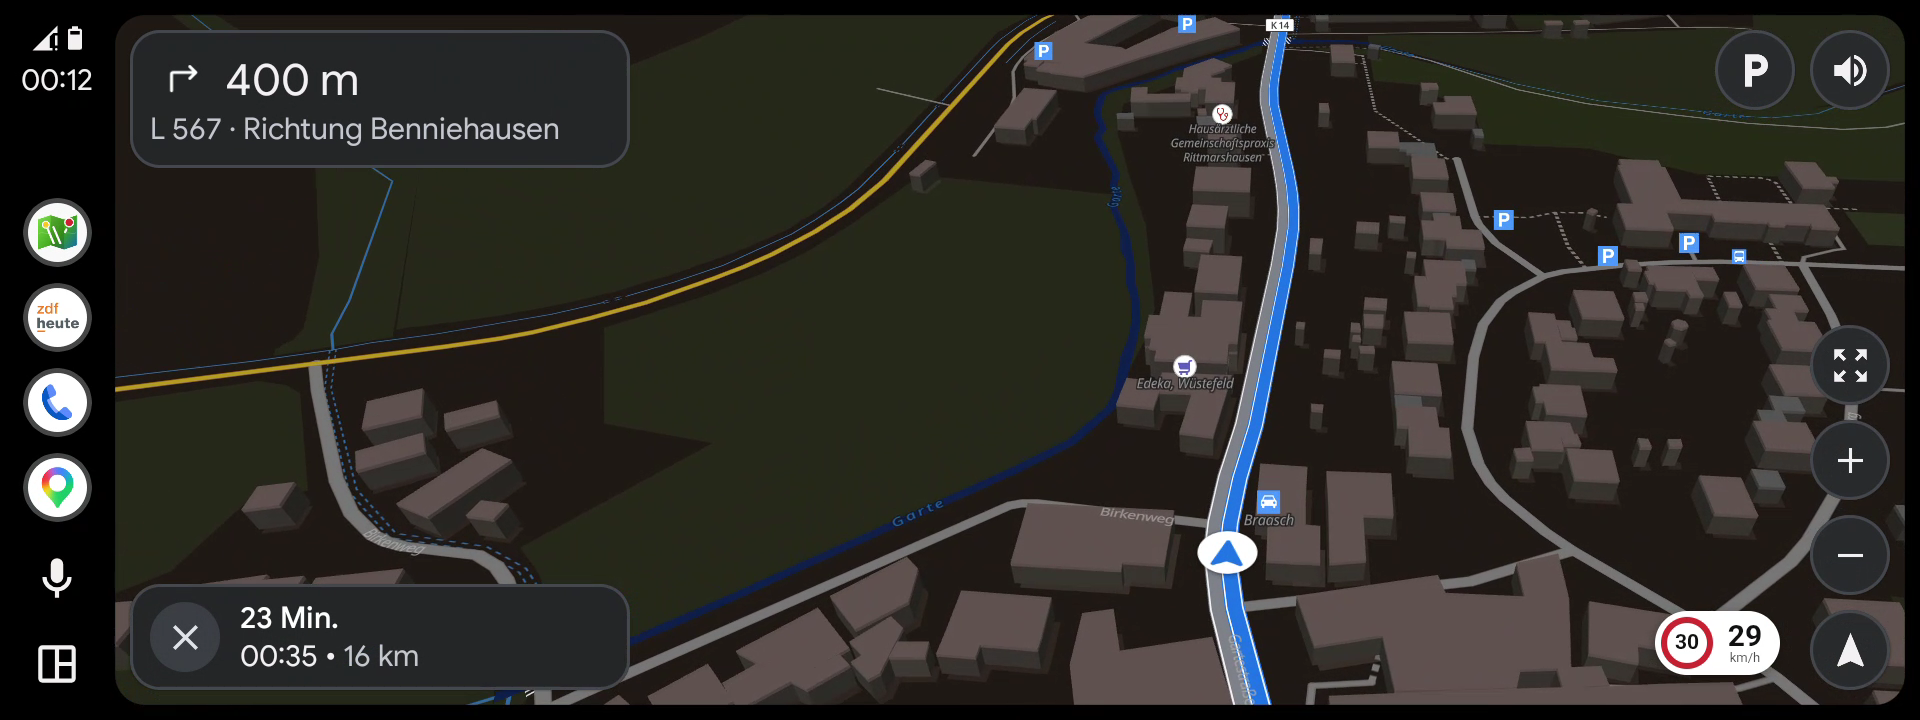
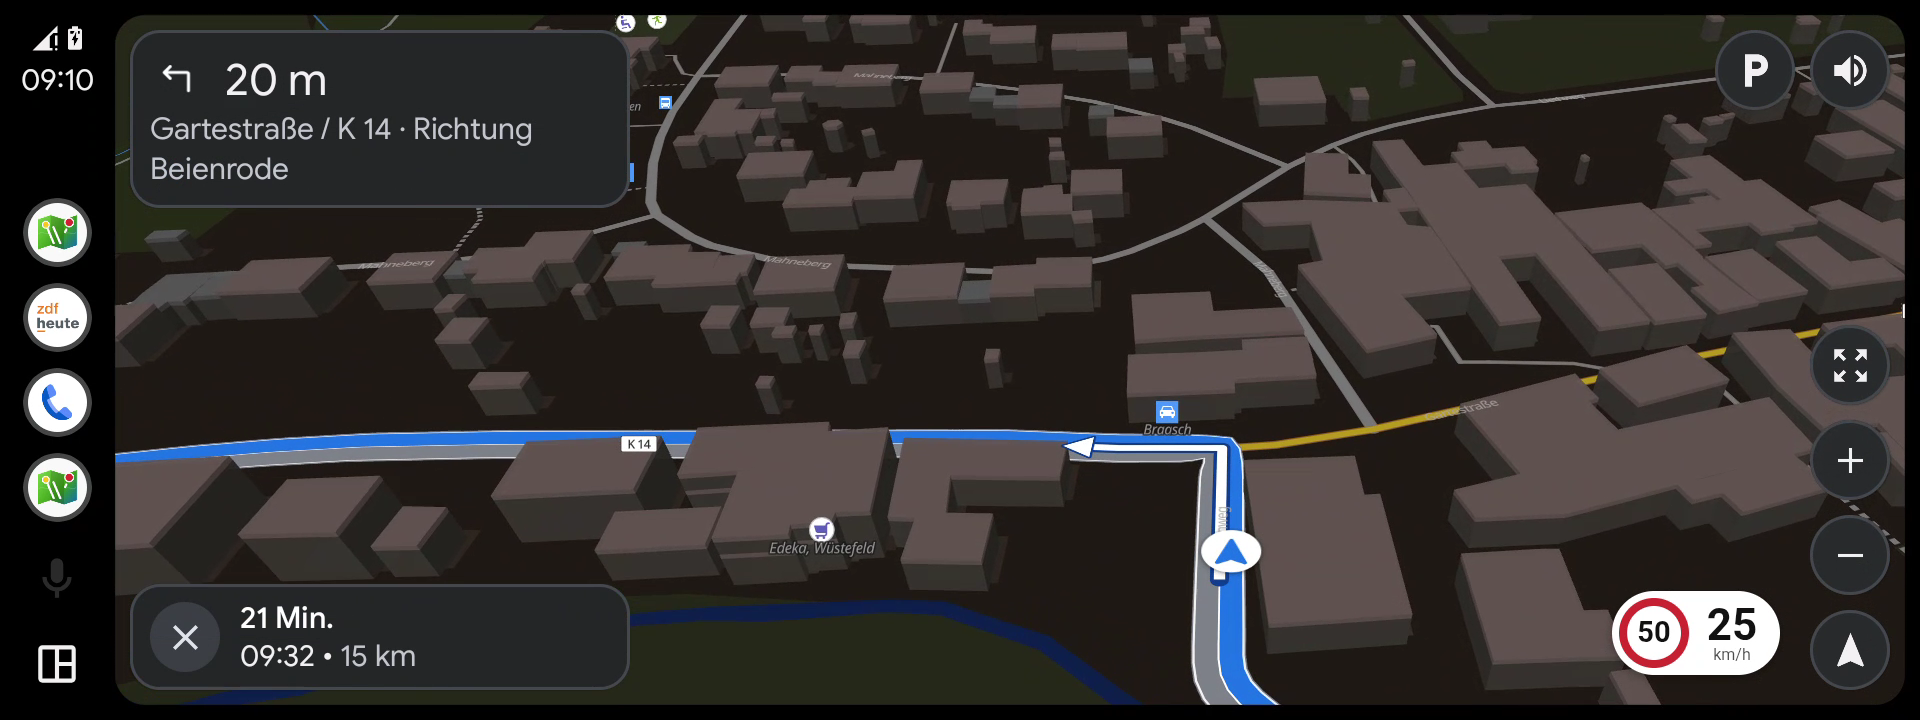
Android Auto in Bildern neu: Navigation durch Rittmarshausen bei Tag und Nacht mit breiter Route und größerer Tempoanzeige (screenshot-auto*.png), dazu die Routenwahl mit „Los“ (screenshot-auto-route*.png); Werbebilder handy-6-auto und breit-6-auto neu zusammengesetzt. README

diff --git a/tools/README.md b/tools/README.md
@@ -88,9 +88,16 @@ Hinweise:
   antworten müssen. Ist ein Bild leer oder halb fertig, dort `wait` erhöhen.
 - Overpass ist manchmal überlastet; dann fehlen in Bild 2 und 6 die Flächen
   bzw. Treffer – einfach das eine Bild noch einmal aufnehmen.
-- **Android Auto** (`screenshot-auto{,_light}.png`, 1920×720, für die
-  Werbebilder `*-6-auto`) nimmt takeShots nicht auf: im Simulator
-  (`tools/android-auto.sh id3`) eine Navigation fahren, dann
+- **Android Auto** (1920×720) nimmt takeShots nicht auf – die Bilder kommen
+  aus dem Simulator (`tools/android-auto.sh id3`, Handy am Kabel):
+  `screenshot-auto{,_light}.png` zeigen die Navigation (für die Werbebilder
+  `*-6-auto` und `auto-tag.webp` auf der Webseite),
+  `screenshot-auto-route{,_light}.png` die Routenwahl mit „Los“ (noch in
+  keinem Werbebild). Ablauf: Die Auto-Seite mit `&sim` neu laden (über die
+  Entwicklerwerkzeuge der WebView, `chrome://inspect` – dann fährt die
+  Navigation die Route von selbst ab), Ziel wählen, „Los“; etwa 6 s danach
+  sind die Knöpfe am rechten Rand noch zu sehen. Tag und Nacht:
+  `echo day >> ~/.cache/wmap-dhu/eingabe` bzw. `night`. Aufnehmen:
   `echo "screenshot $HOME/.cache/wmap-dhu/x.png" >> ~/.cache/wmap-dhu/eingabe`
   und das Auto-Bild herausschneiden (`magick x.png -crop 1920x720+0+180`).
   Die Rahmen setzt `takeshots wmap compose` (Element `display`).

diff --git a/README.md b/README.md
@@ -1638,7 +1638,9 @@ tools/android-auto.sh id3       # Android Auto am Rechner (Simulator), siehe Abs
   mit „Server nicht erreichbar“ ab, wenn der nicht läuft. Welches Bild was
   zeigt und welche acht Werbebilder in den Play Store gehören, steht in
   [`tools/README.md`](tools/README.md); die Store-Texte liegen in
-  `appdata/store/de-DE/`.
+  `appdata/store/de-DE/`. Die Bilder aus Android Auto kommen aus dem
+  Simulator: Navigation (`screenshot-auto*.png`) und Routenwahl mit „Los“
+  (`screenshot-auto-route*.png`), je Tag und Nacht.
 - **GitHub Actions** (`.github/workflows/build.yml`, wie bei WKeePass): ein Tag
   `v*` (von `git-release`) baut Windows (.exe), macOS (.dmg), Linux (RPM,
   AppImage, je x86_64/aarch64) und Android (AAB + APKs) und hängt alles an
